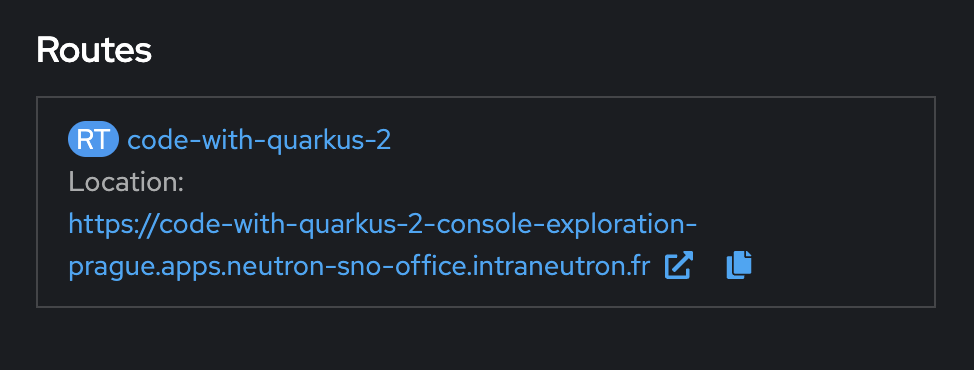
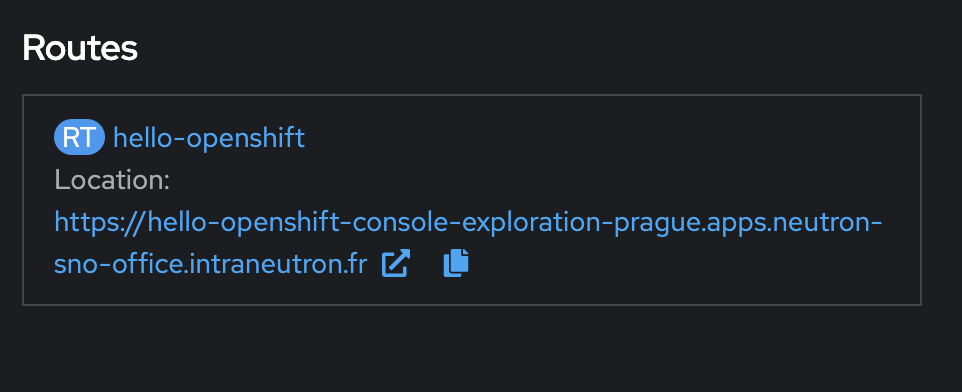
change position for test purposeush

Changed region(s): [[0.0312, 0.2973, 0.9667, 0.8324], [0.0312, 0.2378, 0.9667, 0.2676], [0.0, 0.0892, 0.1559, 0.1784]]

diff --git a/docs/01_Présentation_de_Kubernetes_et_Openshift/03_Exercice_guidé_Exploration_de_la_console.md b/docs/01_Présentation_de_Kubernetes_et_Openshift/03_Exercice_guidé_Exploration_de_la_console.md
@@ -39,11 +39,11 @@ Créez un projet nommé "console-exploration-YOURCITY" à l'aide de cet assistan
 
 4. Pour déployer un exemple d'application dans le projet :
 
-   - Cliquez dans "Create applications using samples" sur le lien "Basic Quarkus".
+   - Cliquez sur "Container images".
 
-   ![Basic quarkus](./images/basic_quarkus.png)
+   ![Basic quarkus](./images/container_image.png)
 
-   - Examinez les valeurs par défaut de l'exemple d'application, puis sélectionnez "Create" en bas de la page.
+   - Dans "Image name from external registry" ecrivez ```docker.io/openshift/hello-openshift```. Examinez les valeurs par défaut de l'exemple d'application, puis sélectionnez "Create" en bas de la page.
 
    ![Create application](./images/create_application.png)
 
@@ -60,7 +60,7 @@ Créez un projet nommé "console-exploration-YOURCITY" à l'aide de cet assistan
 
    ![Get route](./images/get_route.png)
 
-   ![Result](./images/result_quarkus.png)
+   ![Result](./images/result_hello_world.png)
 
 ## Étape 4 : Gérer et superviser votre application
 
